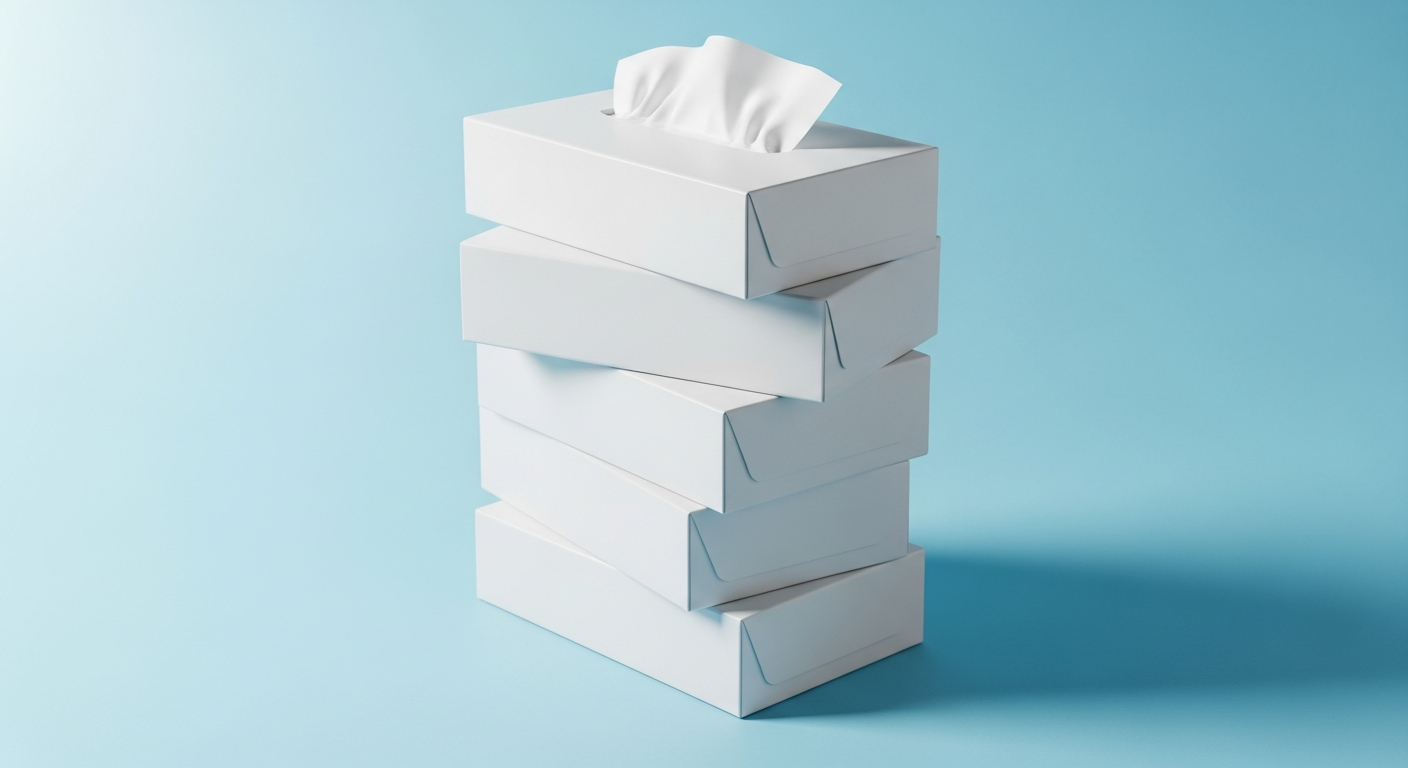
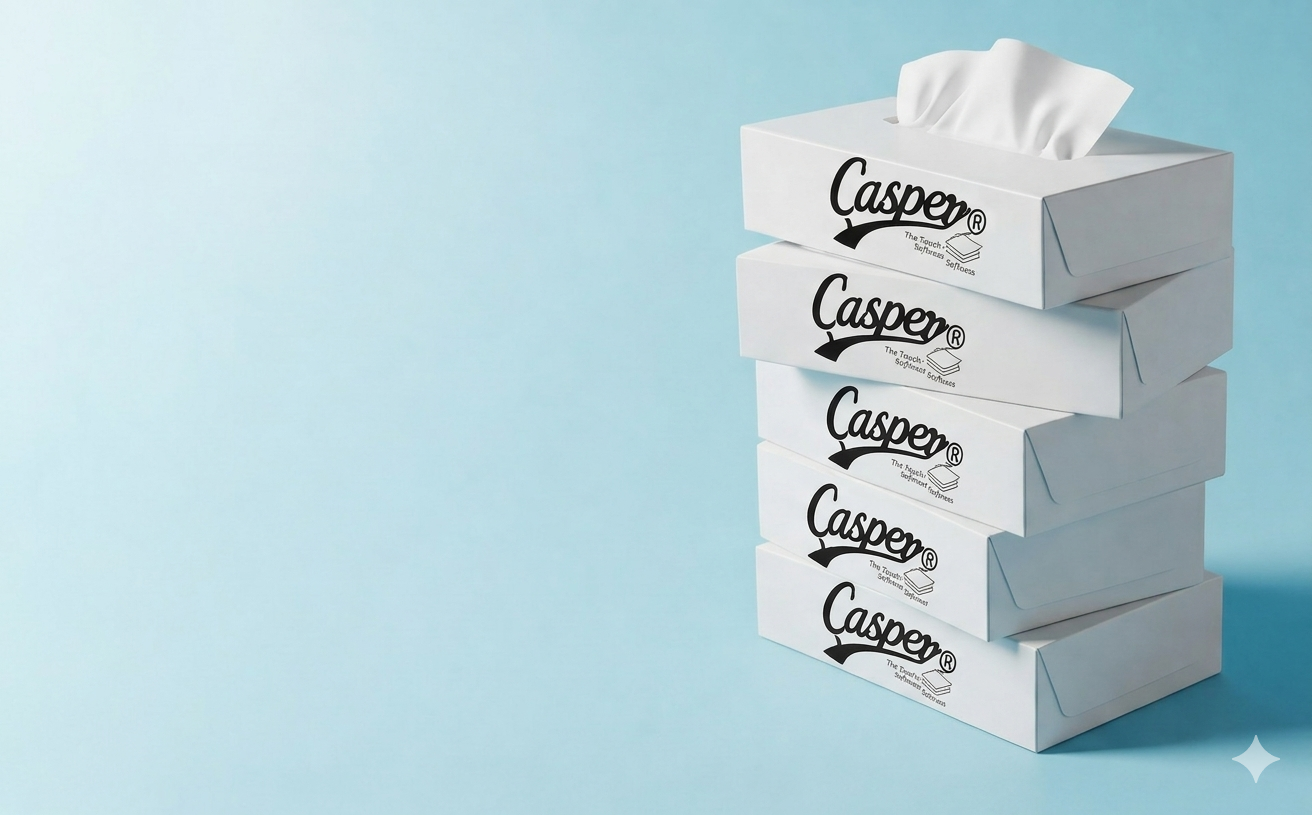
feat: branding

diff --git a/artifacts/tissue-shop/src/pages/Home.tsx b/artifacts/tissue-shop/src/pages/Home.tsx
@@ -3,6 +3,7 @@ import { motion } from "framer-motion";
 import { Leaf, ShieldCheck, Truck, Droplets, ArrowRight, FileText, Phone, MapPin } from "lucide-react";
 import { useListProducts, useListCategories } from "@/lib/firebase-hooks";
 import { ProductCard } from "@/components/ui/ProductCard";
+import { BrandLogo } from "@/components/ui/BrandLogo";
 
 export default function Home() {
   const { data: products } = useListProducts();
@@ -12,9 +13,9 @@ export default function Home() {
   const featuredProducts = products?.filter(p => p.isBestseller).slice(0, 4) || products?.slice(0, 4) || [];
 
   return (
-    <motion.div 
-      initial={{ opacity: 0 }} 
-      animate={{ opacity: 1 }} 
+    <motion.div
+      initial={{ opacity: 0 }}
+      animate={{ opacity: 1 }}
       exit={{ opacity: 0 }}
       className="pb-24"
     >
@@ -22,29 +23,32 @@ export default function Home() {
       <section className="px-4 sm:px-6 lg:px-8 pt-6 pb-12">
         <div className="relative w-full max-w-7xl mx-auto rounded-3xl overflow-hidden bg-background shadow-xl shadow-primary/5 border border-border/50 min-h-[600px] flex items-center">
           <div className="absolute inset-0 bg-gradient-to-r from-background via-background/90 to-transparent z-10 w-2/3" />
-          <img 
-            src={`${import.meta.env.BASE_URL}images/hero-bg.png`} 
-            className="absolute inset-0 w-full h-full object-cover object-right" 
-            alt="Premium Tissue Paper Background" 
+          <img
+            src={`${import.meta.env.BASE_URL}images/hero-bg.png`}
+            className="absolute inset-0 w-full h-full object-cover object-center md:object-contain md:object-right"
+            alt="Premium Tissue Paper Background"
           />
-          
+
           <div className="relative z-20 p-8 md:p-16 lg:p-24 max-w-2xl">
             <motion.div
               initial={{ opacity: 0, y: 20 }}
               animate={{ opacity: 1, y: 0 }}
               transition={{ delay: 0.1, duration: 0.6 }}
             >
-              <span className="inline-block px-4 py-1.5 rounded-full bg-primary/10 text-primary text-sm font-bold tracking-wide mb-6">
+              <div className="mb-6 inline-flex rounded-2xl border border-border/60 bg-background/85 p-3 shadow-lg backdrop-blur-sm">
+                <BrandLogo imageClassName="h-14 md:h-16" />
+              </div>
+              <span className="inline-block px-4 py-1.5 rounded-full bg-primary/10 text-primary text-sm font-bold tracking-wide mb-6 md:ml-4 md:align-middle">
                 Premium Collection 2025
               </span>
               <h1 className="text-5xl md:text-7xl font-display font-extrabold text-foreground leading-[1.1] tracking-tight">
-                Experience the <br/>
+                Experience the <br />
                 <span className="text-transparent bg-clip-text bg-gradient-to-r from-primary to-blue-400">Softest</span> Touch.
               </h1>
               <p className="mt-6 text-lg md:text-xl text-muted-foreground leading-relaxed max-w-lg">
                 Elevate your everyday moments with our ultra-soft, 3-ply facial tissues. Crafted for gentle care and ultimate comfort.
               </p>
-              
+
               <div className="mt-10 flex flex-wrap gap-4">
                 <Link href="/products" className="px-8 py-4 rounded-xl font-semibold bg-gradient-to-r from-primary to-primary/80 text-primary-foreground shadow-lg shadow-primary/25 hover:shadow-xl hover:shadow-primary/30 hover:-translate-y-0.5 active:translate-y-0 transition-all duration-200">
                   Shop Now
@@ -68,13 +72,13 @@ export default function Home() {
               { icon: ShieldCheck, title: "Hypoallergenic", desc: "Dermatologically tested for sensitive skin" },
               { icon: Truck, title: "Fast Delivery", desc: "Free shipping on orders over $50" },
             ].map((feature, i) => (
-              <motion.div 
+              <motion.div
                 key={i}
                 initial={{ opacity: 0, y: 20 }}
                 whileInView={{ opacity: 1, y: 0 }}
                 viewport={{ once: true }}
                 transition={{ delay: i * 0.1 }}
-                className="flex items-start gap-4 p-6 bg-card rounded-2xl shadow-sm border border-border/50"
+                className="relative flex items-start gap-4 p-6 bg-card rounded-2xl shadow-sm border border-border/50 overflow-hidden"
               >
                 <div className="bg-primary/10 p-3 rounded-xl">
                   <feature.icon className="w-6 h-6 text-primary" />
@@ -114,7 +118,7 @@ export default function Home() {
             </div>
           )}
         </div>
-        
+
         <div className="mt-8 text-center sm:hidden">
           <Link href="/products" className="inline-flex items-center gap-2 font-semibold text-primary hover:text-primary/80 transition-colors">
             View All <ArrowRight className="w-4 h-4" />
@@ -126,6 +130,9 @@ export default function Home() {
       <section className="max-w-7xl mx-auto px-4 sm:px-6 lg:px-8 py-10">
         <div className="rounded-3xl overflow-hidden relative bg-foreground text-background flex flex-col md:flex-row items-center">
           <div className="p-10 md:p-16 lg:p-20 md:w-1/2 relative z-10">
+            <div className="mb-6 inline-flex rounded-2xl border border-background/20 bg-background/95 p-3 shadow-lg">
+              <BrandLogo imageClassName="h-14" />
+            </div>
             <h2 className="text-3xl md:text-5xl font-display font-bold mb-6">The Difference is in the Details.</h2>
             <p className="text-background/80 text-lg leading-relaxed mb-8">
               Every Casper tissue goes through a rigorous quality check to ensure you get the plush, lint-free experience you deserve. Because your skin shouldn't settle for less.
@@ -135,9 +142,9 @@ export default function Home() {
             </Link>
           </div>
           <div className="md:w-1/2 w-full h-64 md:h-auto absolute right-0 inset-y-0 opacity-40 md:opacity-100 mix-blend-overlay md:mix-blend-normal">
-            <img 
-              src={`${import.meta.env.BASE_URL}images/quality-texture.png`} 
-              alt="Tissue Texture" 
+            <img
+              src={`${import.meta.env.BASE_URL}images/quality-texture.png`}
+              alt="Tissue Texture"
               className="w-full h-full object-cover object-center"
             />
             <div className="absolute inset-0 bg-gradient-to-r from-foreground to-transparent hidden md:block"></div>

diff --git a/artifacts/tissue-shop/src/pages/Admin.tsx b/artifacts/tissue-shop/src/pages/Admin.tsx
@@ -2,7 +2,7 @@ import { Fragment, useState } from "react";
 import { motion, AnimatePresence } from "framer-motion";
 import { useQuery, useMutation, useQueryClient } from "@tanstack/react-query";
 import {
-  LayoutDashboard, Package, ShoppingBag, Plus, Pencil, Trash2, 
+  Package, ShoppingBag, Plus, Pencil, Trash2, 
   X, Save, TrendingUp, AlertCircle, Search, ChevronDown, ChevronUp,
   Leaf, Eye, EyeOff, LogOut, Lock, Upload
 } from "lucide-react";
@@ -35,6 +35,7 @@ import {
   AlertDialogTitle,
 } from "@/components/ui/alert-dialog";
 import { Spinner } from "@/components/ui/spinner";
+import { BrandLogo } from "@/components/ui/BrandLogo";
 
 const SESSION_KEY = "softtouch_admin_auth";
 
@@ -102,8 +103,8 @@ function AdminLogin({
         className="w-full max-w-md"
       >
         <div className="text-center mb-8">
-          <div className="w-14 h-14 bg-primary rounded-2xl flex items-center justify-center mx-auto mb-4 shadow-lg shadow-primary/25">
-            <Leaf className="w-8 h-8 text-primary-foreground" />
+          <div className="mx-auto mb-4 inline-flex rounded-3xl border border-border/60 bg-background/95 px-5 py-4 shadow-[0_18px_40px_rgba(15,23,42,0.08)]">
+            <BrandLogo imageClassName="h-20 drop-shadow-[0_4px_10px_rgba(15,23,42,0.08)]" />
           </div>
           <h1 className="text-2xl font-bold text-foreground">Admin Login</h1>
           <p className="text-muted-foreground text-sm mt-1">Casper Management Panel</p>
@@ -599,9 +600,7 @@ export default function Admin() {
       {/* Header */}
       <header className="sticky top-0 z-40 bg-background border-b border-border px-6 py-4 flex items-center justify-between">
         <div className="flex items-center gap-3">
-          <div className="w-8 h-8 bg-primary rounded-lg flex items-center justify-center">
-            <LayoutDashboard className="w-5 h-5 text-primary-foreground" />
-          </div>
+          <BrandLogo imageClassName="h-12" />
           <div>
             <h1 className="font-bold text-foreground">Admin Panel</h1>
             <p className="text-xs text-muted-foreground">Casper Management</p>

diff --git a/artifacts/tissue-shop/src/components/ui/Navbar.tsx b/artifacts/tissue-shop/src/components/ui/Navbar.tsx
@@ -1,8 +1,9 @@
 import { useState } from "react";
 import { Link, useLocation } from "wouter";
-import { ShoppingCart, Menu, X, Leaf } from "lucide-react";
+import { ShoppingCart, Menu, X } from "lucide-react";
 import { useGetCart } from "@/lib/firebase-hooks";
 import { motion, AnimatePresence } from "framer-motion";
+import { BrandLogo } from "@/components/ui/BrandLogo";
 
 export function Navbar() {
   const [mobileOpen, setMobileOpen] = useState(false);
@@ -25,12 +26,10 @@ export function Navbar() {
           
           {/* Logo */}
           <Link href="/" className="flex items-center gap-2 group">
-            <div className="w-8 h-8 bg-primary rounded-lg flex items-center justify-center shadow-sm group-hover:scale-105 transition-transform">
-              <Leaf className="w-5 h-5 text-primary-foreground" />
-            </div>
-            <span className="font-bold text-lg text-foreground tracking-tight">
-              Casper
-            </span>
+            <BrandLogo
+              className="group-hover:scale-[1.02] transition-transform"
+              imageClassName="h-11 sm:h-12"
+            />
           </Link>
 
           {/* Desktop Nav */}

diff --git a/artifacts/tissue-shop/src/components/ui/ProductCard.tsx b/artifacts/tissue-shop/src/components/ui/ProductCard.tsx
@@ -5,6 +5,7 @@ import { useQueryClient } from "@tanstack/react-query";
 import { useToast } from "@/hooks/use-toast";
 import { useState } from "react";
 import { motion } from "framer-motion";
+import { BrandLogo } from "@/components/ui/BrandLogo";
 
 export function ProductCard({ product }: { product: Product }) {
   const { toast } = useToast();
@@ -60,6 +61,9 @@ export function ProductCard({ product }: { product: Product }) {
       className="group bg-card rounded-2xl border border-border/50 overflow-hidden shadow-sm hover:shadow-xl hover:border-primary/20 transition-all duration-300 flex flex-col h-full"
     >
       <Link href={`/products/${product.id}`} className="relative block overflow-hidden aspect-square bg-muted/30">
+        <div className="absolute left-4 bottom-4 z-10 rounded-xl bg-background/95 p-1.5 shadow-md">
+          <BrandLogo imageClassName="h-8" />
+        </div>
         {product.isNew && (
           <span className="absolute top-4 left-4 bg-accent text-accent-foreground text-xs font-bold px-3 py-1 rounded-full z-10 shadow-sm">
             NEW

diff --git a/artifacts/tissue-shop/src/components/ui/Footer.tsx b/artifacts/tissue-shop/src/components/ui/Footer.tsx
@@ -1,5 +1,6 @@
 import { Link } from "wouter";
-import { Leaf, Phone, Mail, MapPin } from "lucide-react";
+import { Phone, Mail, MapPin } from "lucide-react";
+import { BrandLogo } from "@/components/ui/BrandLogo";
 
 export function Footer() {
   return (
@@ -10,12 +11,7 @@ export function Footer() {
           {/* Brand */}
           <div className="space-y-4">
             <Link href="/" className="flex items-center gap-2">
-              <div className="w-8 h-8 bg-primary rounded-lg flex items-center justify-center shadow-sm">
-                <Leaf className="w-5 h-5 text-primary-foreground" />
-              </div>
-              <span className="font-bold text-lg text-foreground tracking-tight">
-                Casper
-              </span>
+              <BrandLogo imageClassName="h-14" />
             </Link>
             <p className="text-sm text-muted-foreground leading-relaxed">
               Pakistan's trusted tissue paper brand, delivering soft, durable, and eco-friendly products to households nationwide.

diff --git a/artifacts/tissue-shop/src/components/ui/BrandLogo.tsx b/artifacts/tissue-shop/src/components/ui/BrandLogo.tsx
@@ -1,0 +1,25 @@
+import { cn } from "@/lib/utils";
+
+export const BRAND_LOGO_SRC = `${import.meta.env.BASE_URL}images/logo.png`;
+
+type BrandLogoProps = {
+  className?: string;
+  imageClassName?: string;
+  alt?: string;
+};
+
+export function BrandLogo({
+  className,
+  imageClassName,
+  alt = "Casper logo",
+}: BrandLogoProps) {
+  return (
+    <div className={cn("inline-flex shrink-0", className)}>
+      <img
+        src={BRAND_LOGO_SRC}
+        alt={alt}
+        className={cn("h-12 w-auto object-contain", imageClassName)}
+      />
+    </div>
+  );
+}
